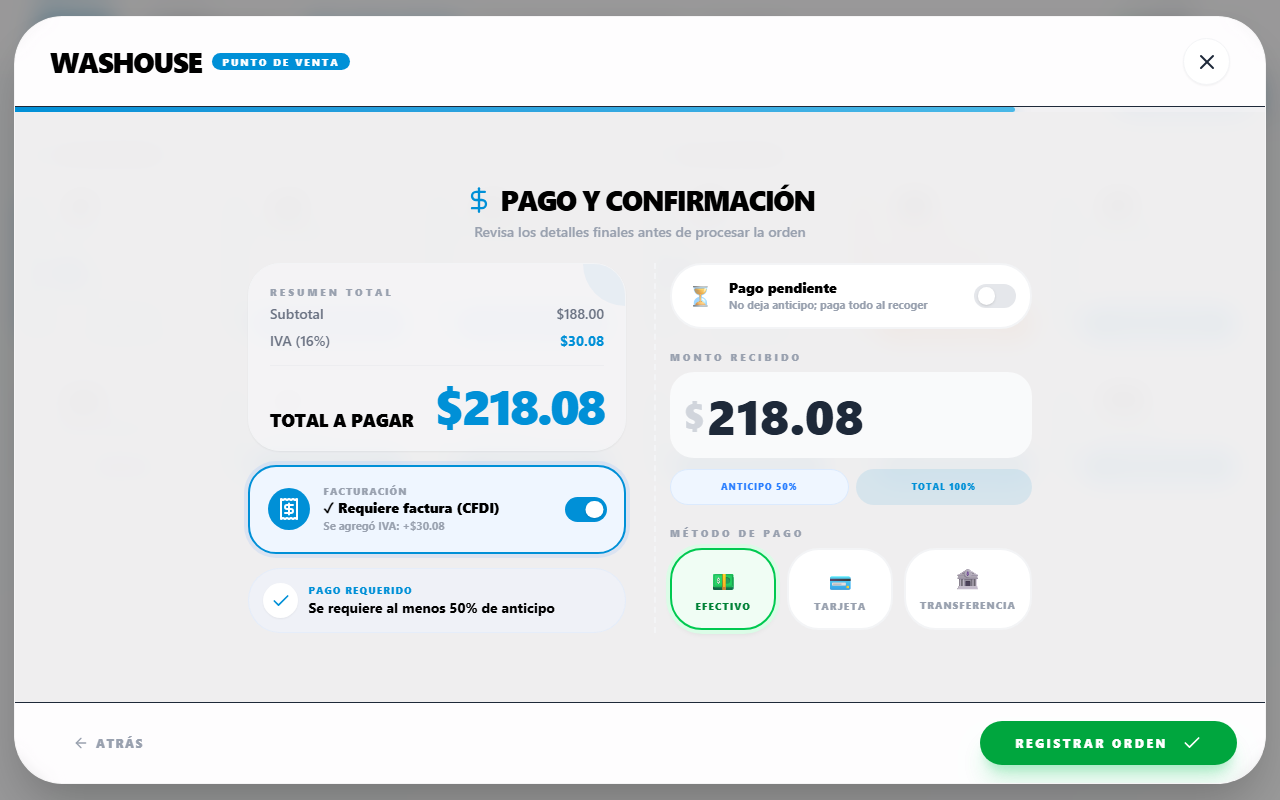
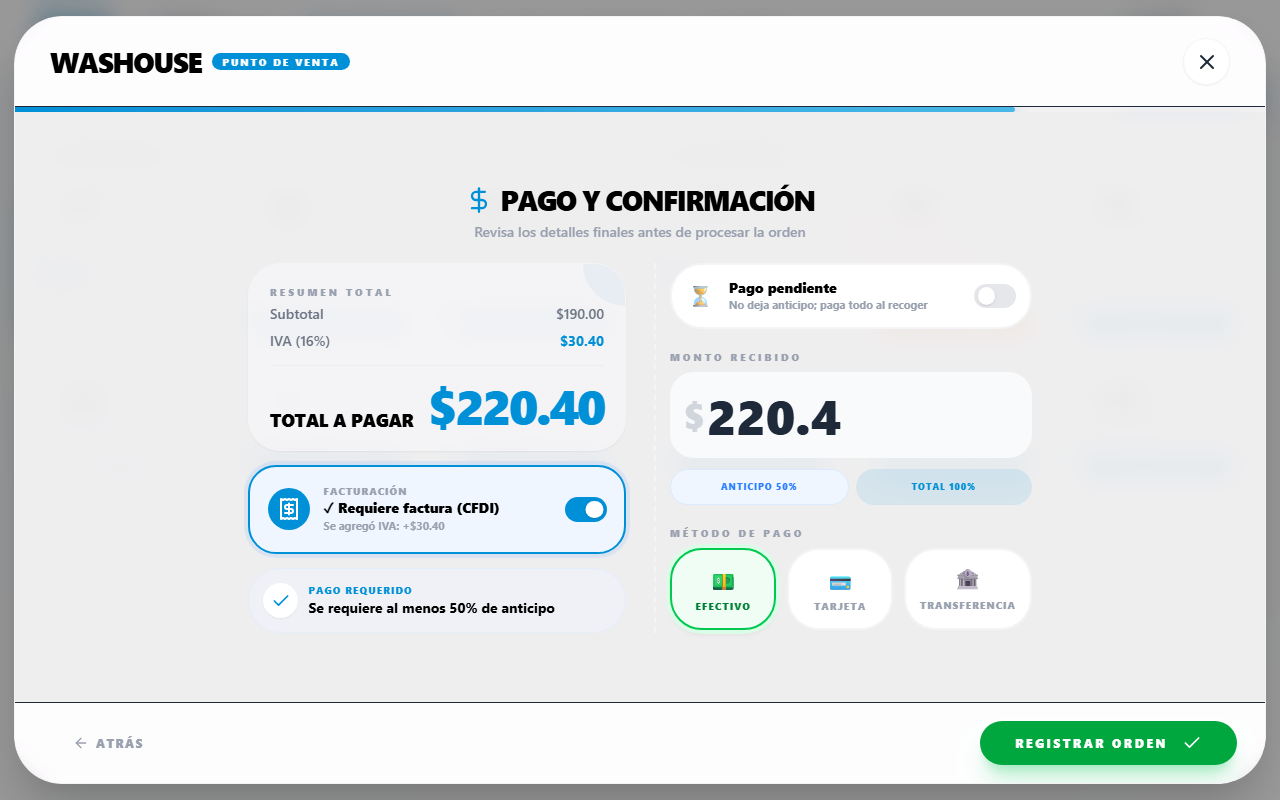
feat: Planchado por pieza ($20) y Planchado por docena ($180)
Catálogo de respaldo, siembra y capturas del manual; Lavadora y Secadora
del respaldo igualadas a los $60 de producción.

Changed region(s): [[0.5625, 0.5, 0.6875, 0.5625], [0.3125, 0.4688, 0.4688, 0.5312]]

diff --git a/src/data/catalog.js b/src/data/catalog.js
@@ -30,8 +30,8 @@ export const SERVICES_CATALOG = [
         extraPerKg: 30,
         icon: '🧺'
     },
-    { id: 'self_wash', name: 'Lavadora', price: 50, category: 'self_service', type: 'weight', baseKg: 5, extraPrice: 10, icon: '🧼' },
-    { id: 'self_dry', name: 'Secadora', price: 50, category: 'self_service', type: 'weight', baseKg: 5, extraPrice: 10, icon: '💨' },
+    { id: 'self_wash', name: 'Lavadora', price: 60, category: 'self_service', type: 'weight', baseKg: 5, extraPrice: 10, icon: '🧼' },
+    { id: 'self_dry', name: 'Secadora', price: 60, category: 'self_service', type: 'weight', baseKg: 5, extraPrice: 10, icon: '💨' },
 
     // Edredones
     { id: 'duvet_s', name: 'Edredón individual', price: 150, category: 'special', type: 'unit', icon: '🛏' },
@@ -39,8 +39,8 @@ export const SERVICES_CATALOG = [
     { id: 'duvet_l_k', name: 'Edredón King', price: 235, category: 'special', type: 'unit', icon: '👑' },
 
     // Planchado
-    { id: 'iron_piece', name: 'Pieza', price: 18, category: 'iron', type: 'unit', icon: '👕' },
-    { id: 'iron_dozen', name: 'Docena', price: 180, category: 'iron', type: 'unit', icon: '♨' },
+    { id: 'iron_piece', name: 'Planchado por pieza', price: 20, category: 'iron', type: 'unit', icon: '👕' },
+    { id: 'iron_dozen', name: 'Planchado por docena', price: 180, category: 'iron', type: 'unit', icon: '♨' },
     { id: 'iron_jeans', name: 'Mezclilla', price: 30, category: 'iron', type: 'unit', icon: '👖' },
 
     // Compostura
